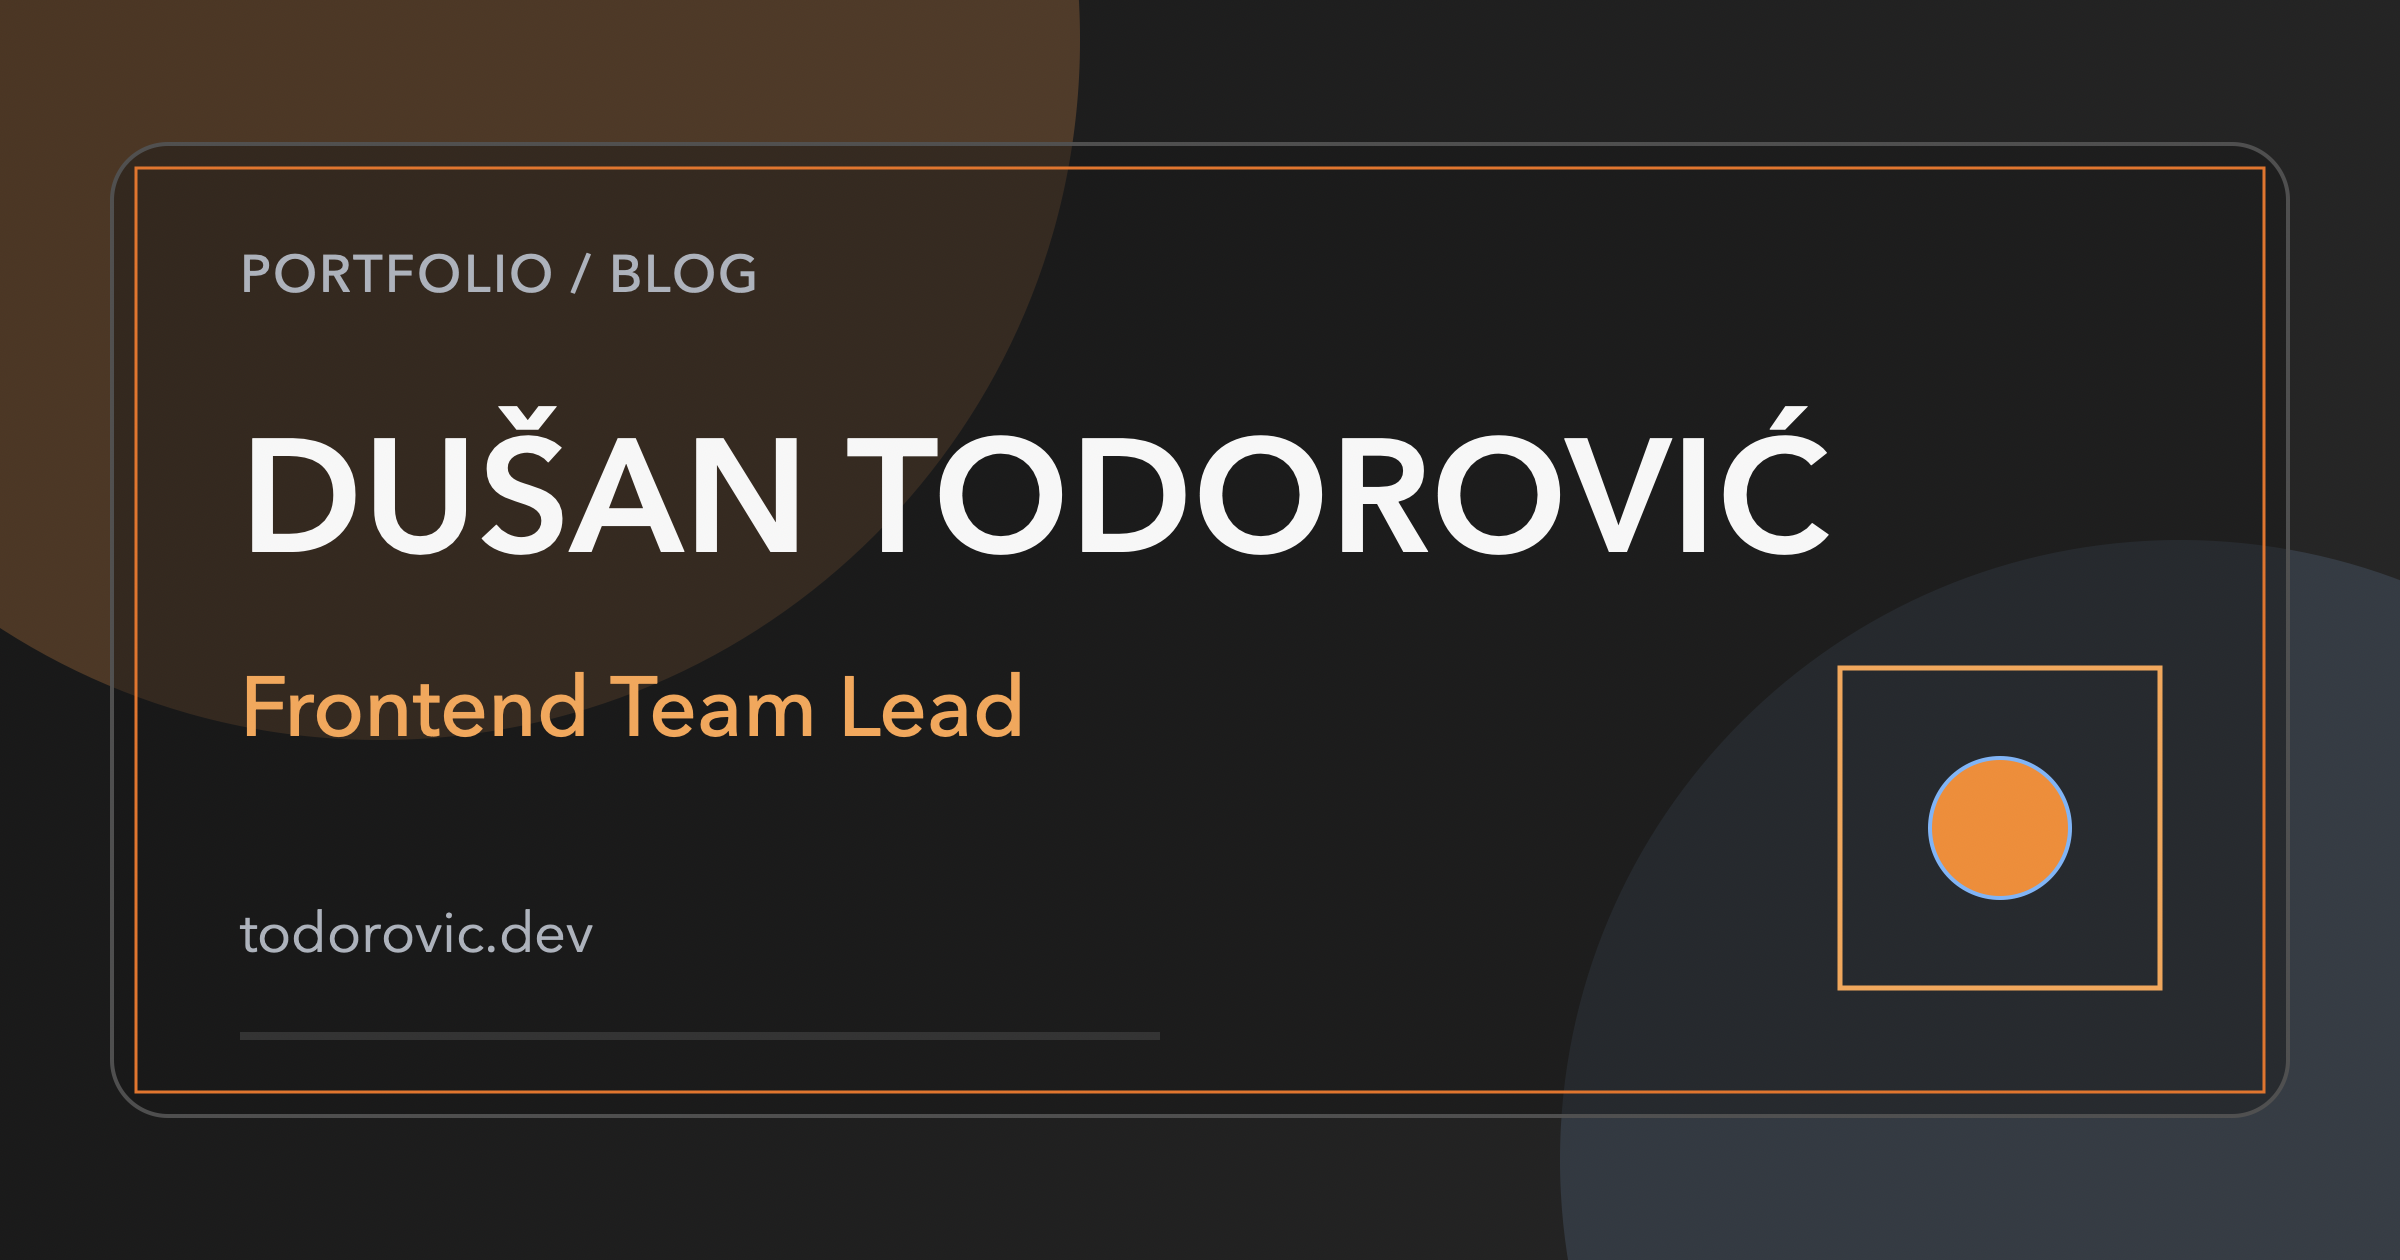
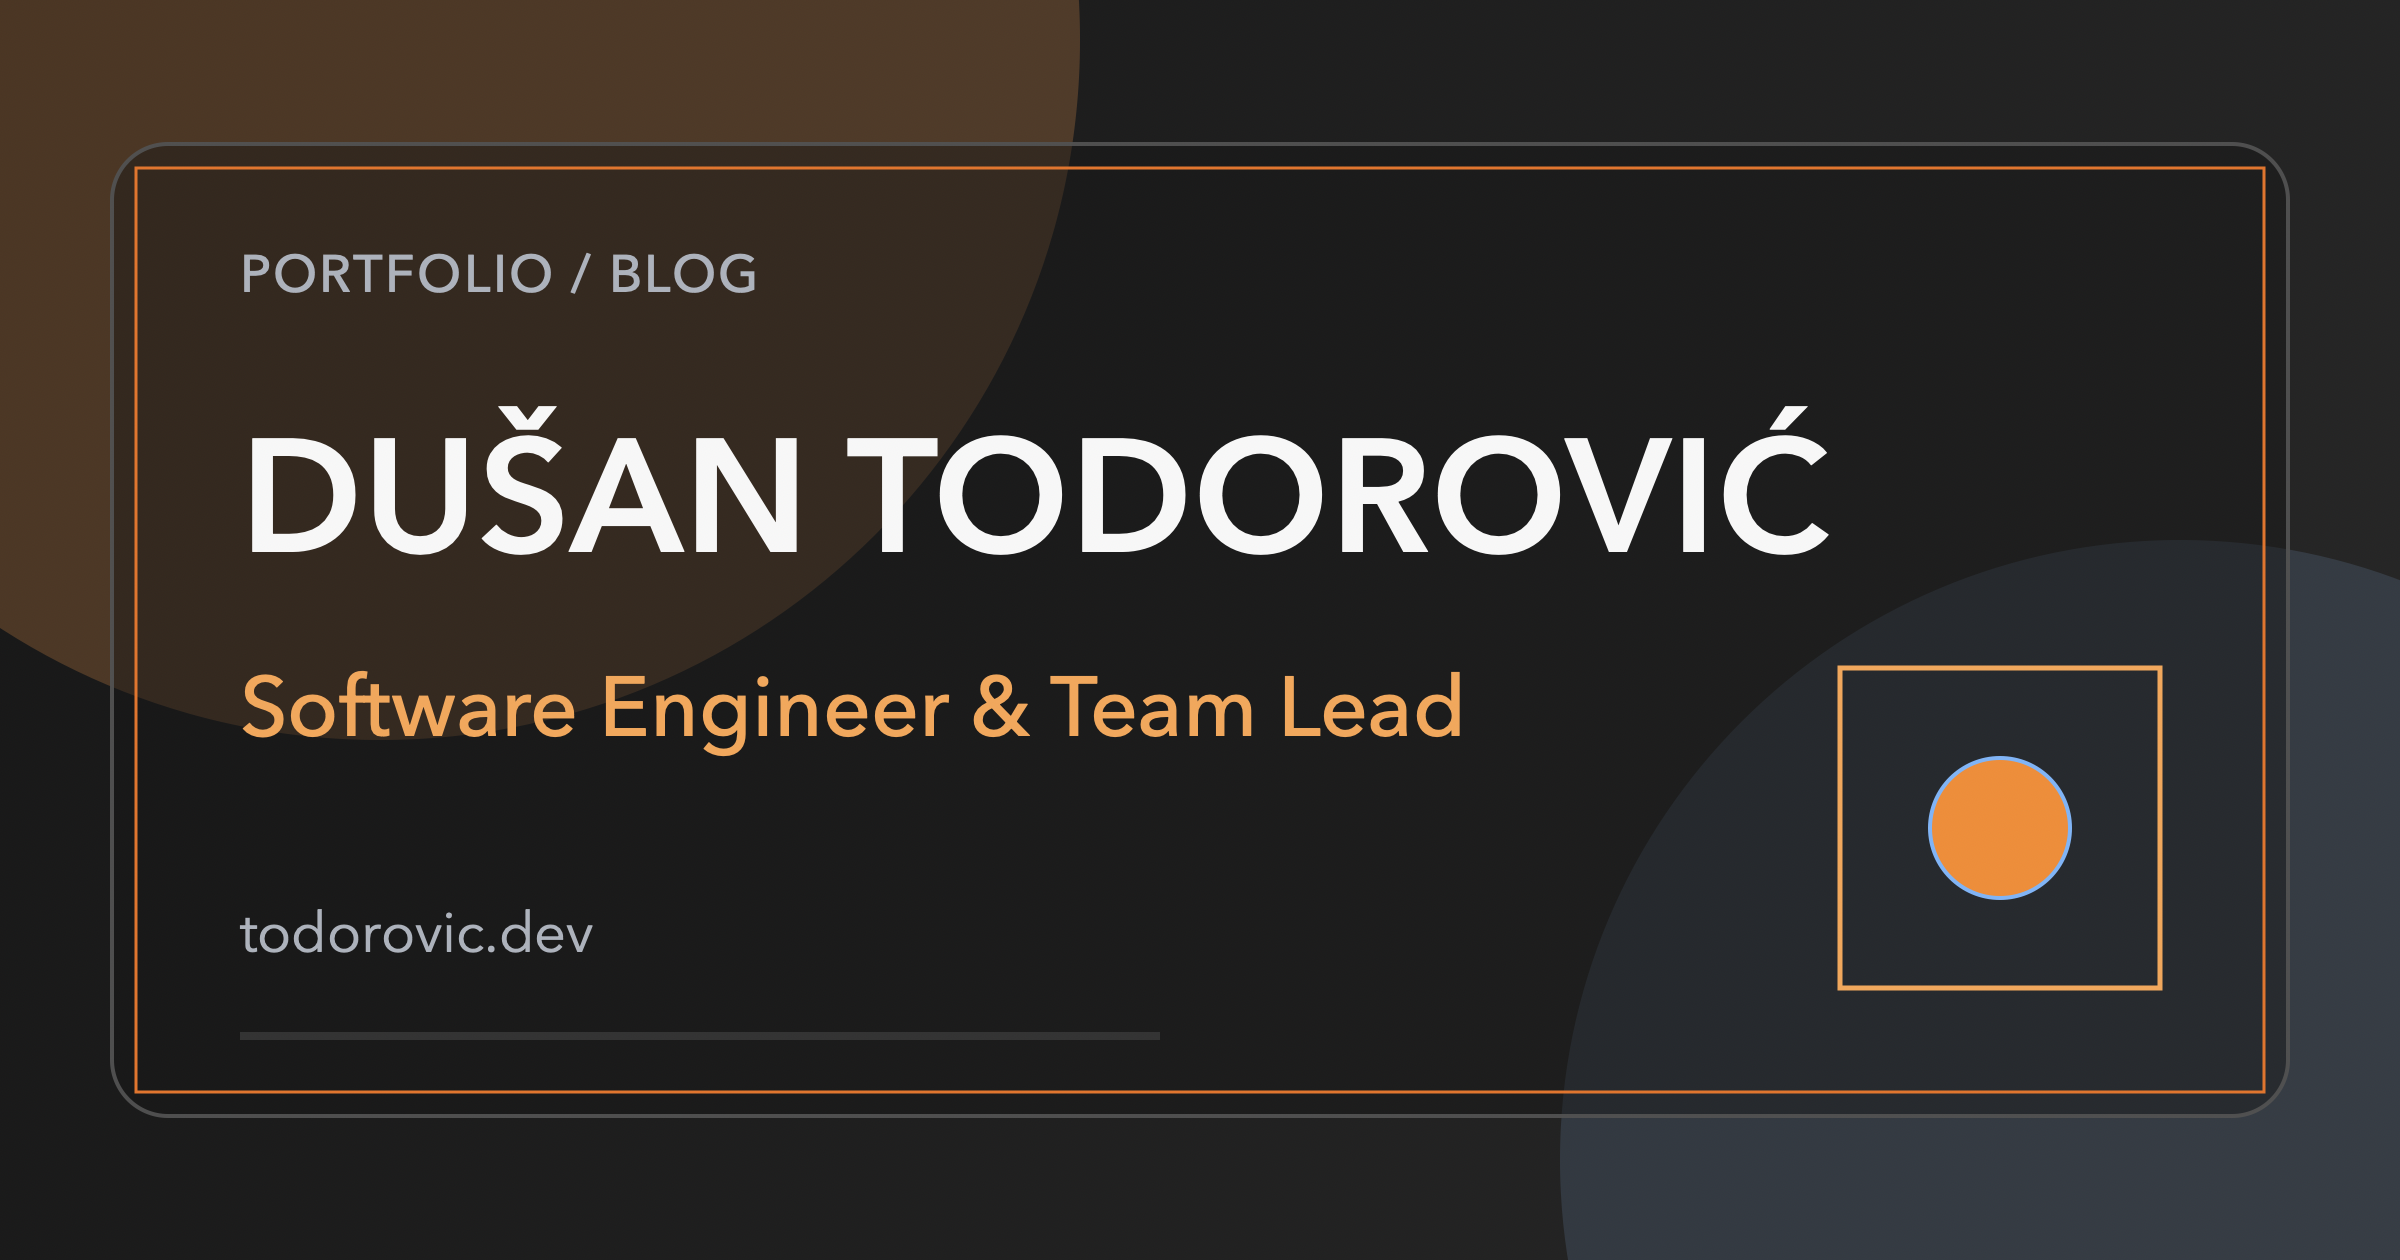
feat(branding): broaden positioning and sync current role copy

Changed region(s): [[0.0938, 0.5262, 0.625, 0.619]]

diff --git a/scripts/generate-og-default.swift b/scripts/generate-og-default.swift
@@ -120,7 +120,7 @@ let subtitleAttributes: [NSAttributedString.Key: Any] = [
   .foregroundColor: tokenPrimaryLight,
   .paragraphStyle: labelStyle,
 ]
-("Frontend Team Lead" as NSString).draw(
+("Software Engineer & Team Lead" as NSString).draw(
   in: CGRect(x: contentX, y: cardRect.minY + 162, width: 900, height: 70),
   withAttributes: subtitleAttributes
 )

diff --git a/src/modules/portfolio/services/experiences.ts b/src/modules/portfolio/services/experiences.ts
@@ -37,7 +37,7 @@ const experiences: CompanyExperience[] = [
     location: 'Belgrade, Serbia (Hybrid)',
     roles: [
       {
-        title: 'Frontend Team Lead',
+        title: 'Lead Frontend Developer',
         start: '2025-01',
         end: null,
       },
